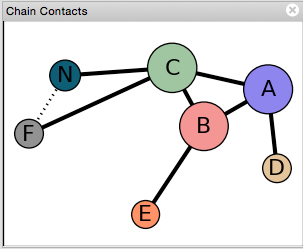
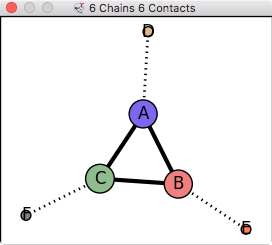
Replaced quick start contacts image and command to reflect current output.

diff --git a/docs/quickstart/index.html b/docs/quickstart/index.html
@@ -203,7 +203,7 @@ show thin black outlines. Save PNG image file to Desktop.</i>
 <table cellpadding=5>
 <tr>
 <td width=256 align=center><a href="cxcmd:buriedarea /a with /b; sasa #1 & ~solvent">buriedarea /a with /b<br>sasa #1 & ~solvent</a>
-<td width=256 align=center><a href="cxcmd:contacts #1">contacts #1</a>
+<td width=256 align=center><a href="cxcmd:contacts #1 & protein">contacts #1 & protein</a>
 <td width=256 align=center><a href="cxcmd:close; set bg black; set silhouettes false">close<br>set bg black<br>set silhouettes false</a>
 <tr>
 <td>
